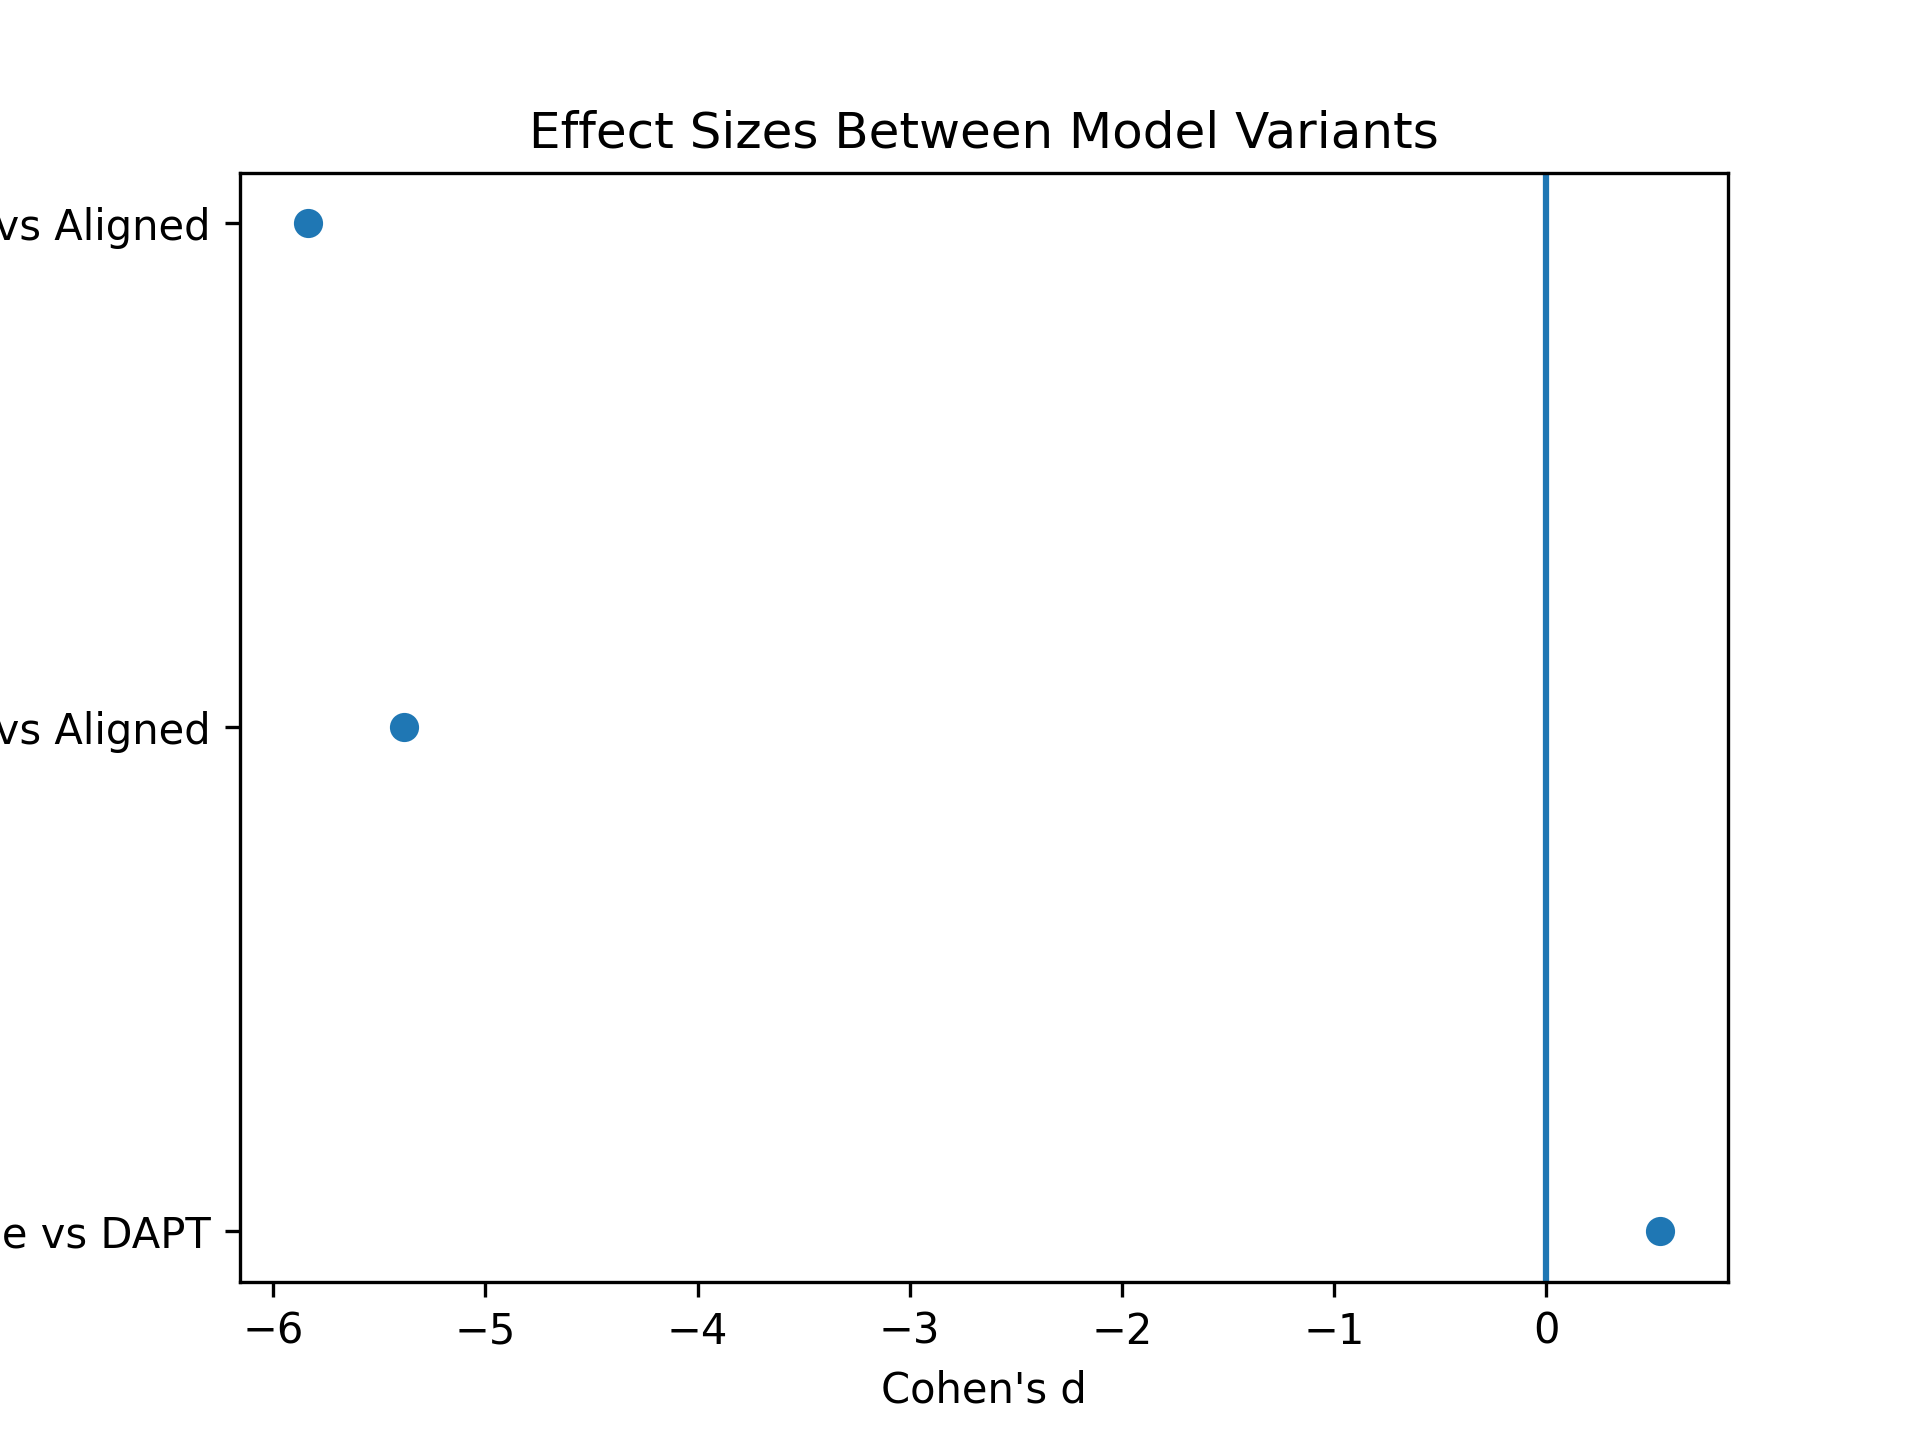
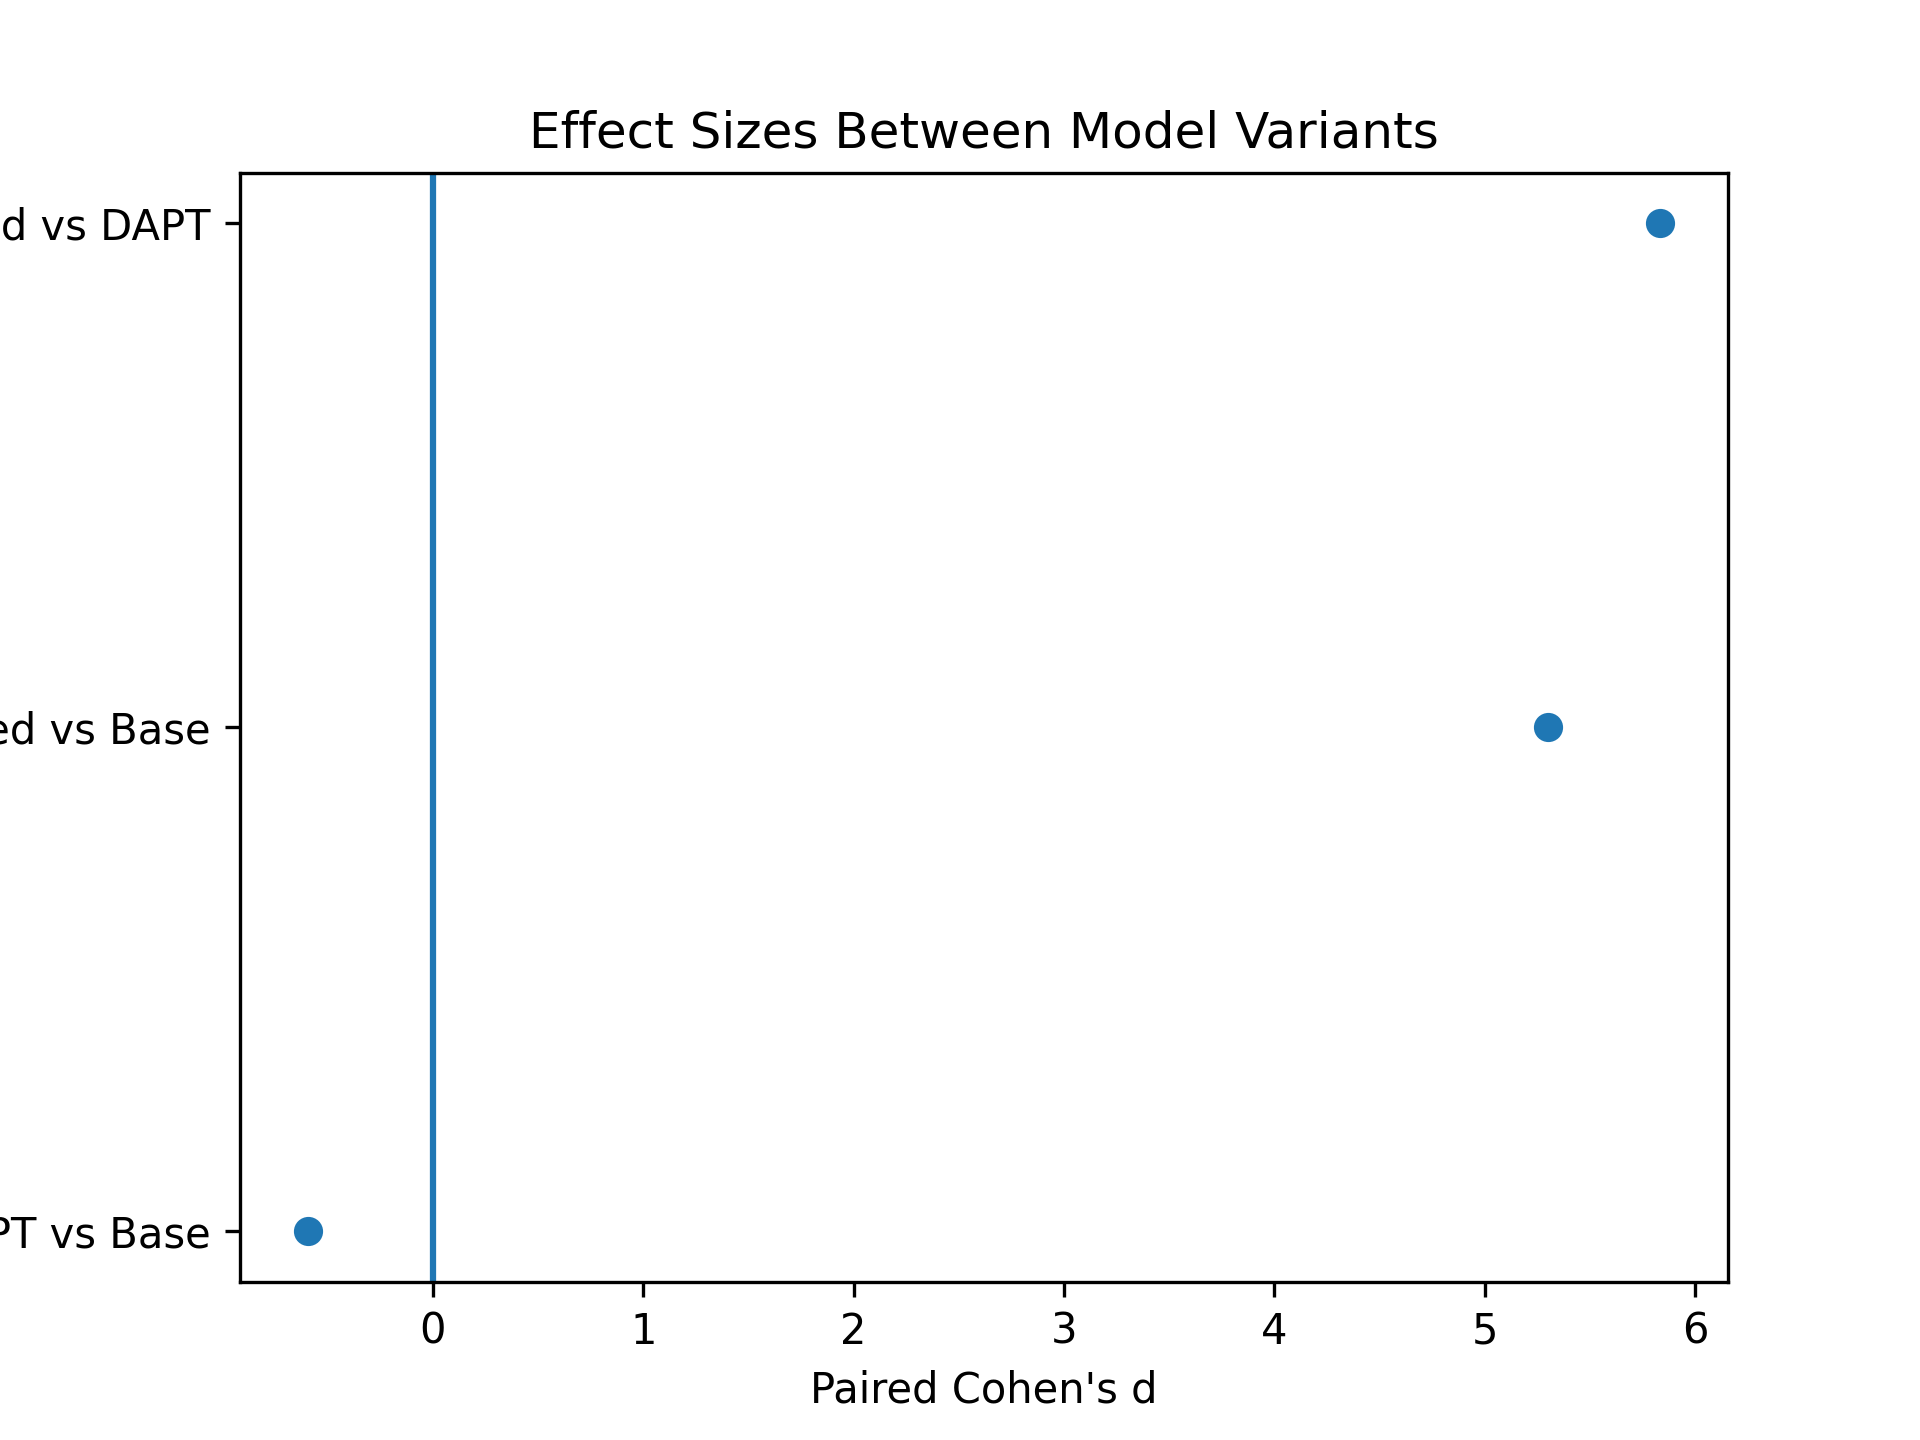
updated effect size calculations

diff --git a/training/generate_margin_plots.py b/training/generate_margin_plots.py
@@ -3,17 +3,22 @@ import numpy as np
 import pandas as pd
 import torch
 from sentence_transformers import SentenceTransformer
-from scipy import stats
-import matplotlib.pyplot as plt
 from sklearn.metrics.pairwise import cosine_similarity
 from pathlib import Path
-import os
+import matplotlib.pyplot as plt
 
 # -----------------------------
-# CONFIG
+# REPRODUCIBILITY
 # -----------------------------
 
-# Get script directory and project root
+SEED = 42
+np.random.seed(SEED)
+torch.manual_seed(SEED)
+
+# -----------------------------
+# PATH CONFIGURATION
+# -----------------------------
+
 SCRIPT_DIR = Path(__file__).parent
 PROJECT_ROOT = SCRIPT_DIR.parent
 
@@ -42,12 +47,13 @@ print(f"Loaded {len(anchors)} alignment pairs.")
 # LOAD MODELS
 # -----------------------------
 
+print("Loading models...")
 base_model = SentenceTransformer(BASE_MODEL_NAME, device=DEVICE)
 dapt_model = SentenceTransformer(DAPT_MODEL_PATH, device=DEVICE)
 aligned_model = SentenceTransformer(ALIGNED_MODEL_PATH, device=DEVICE)
 
 # -----------------------------
-# FUNCTION TO COMPUTE MARGINS
+# MARGIN COMPUTATION
 # -----------------------------
 
 def compute_margins(model):
@@ -57,20 +63,22 @@ def compute_margins(model):
     margins = []
 
     for i in range(len(anchors)):
-        aligned_sim = cosine_similarity(
-            anchor_emb[i].cpu().numpy().reshape(1, -1),
-            positive_emb[i].cpu().numpy().reshape(1, -1)
-        )[0][0]
+        anchor_vec = anchor_emb[i].cpu().numpy().reshape(1, -1)
+        positive_vec = positive_emb[i].cpu().numpy().reshape(1, -1)
 
-        # random negatives
-        rand_indices = np.random.choice(len(positives), NUM_RANDOM_NEGATIVES, replace=True)
+        aligned_sim = cosine_similarity(anchor_vec, positive_vec)[0][0]
+
+        # Random negatives (deterministic because seed fixed)
+        rand_indices = np.random.choice(
+            len(positives),
+            NUM_RANDOM_NEGATIVES,
+            replace=True
+        )
+
         rand_sims = []
-
         for idx in rand_indices:
-            sim = cosine_similarity(
-                anchor_emb[i].cpu().numpy().reshape(1, -1),
-                positive_emb[idx].cpu().numpy().reshape(1, -1)
-            )[0][0]
+            rand_vec = positive_emb[idx].cpu().numpy().reshape(1, -1)
+            sim = cosine_similarity(anchor_vec, rand_vec)[0][0]
             rand_sims.append(sim)
 
         random_mean = np.mean(rand_sims)
@@ -89,7 +97,7 @@ base_margins = compute_margins(base_model)
 dapt_margins = compute_margins(dapt_model)
 aligned_margins = compute_margins(aligned_model)
 
-# Save margins
+# Save per-pair margins
 df = pd.DataFrame({
     "base_margin": base_margins,
     "dapt_margin": dapt_margins,
@@ -98,10 +106,10 @@ df = pd.DataFrame({
 
 output_csv = PROJECT_ROOT / "experiments/results/per_pair_margins.csv"
 df.to_csv(output_csv, index=False)
-print(f"Saved {output_csv}")
+print(f"Saved per-pair margins to {output_csv}")
 
 # -----------------------------
-# FIGURE 4: MARGIN DISTRIBUTION
+# FIGURE 4 — MARGIN DISTRIBUTION
 # -----------------------------
 
 plt.figure()
@@ -109,45 +117,47 @@ plt.boxplot([base_margins, dapt_margins, aligned_margins])
 plt.xticks([1, 2, 3], ["Base", "DAPT", "Aligned"])
 plt.ylabel("Discriminative Margin")
 plt.title("Margin Distribution Across Model Variants")
+
 output_fig1 = PROJECT_ROOT / "paper/figures/margin_distribution.png"
 plt.savefig(output_fig1, dpi=300)
 plt.close()
 
-print(f"Saved {output_fig1}")
+print(f"Saved margin distribution plot to {output_fig1}")
 
 # -----------------------------
-# EFFECT SIZE COMPUTATION
+# PAIRED COHEN'S d (CORRECT DIRECTION)
 # -----------------------------
 
-def cohens_d(a, b):
-    diff = a - b
-    return np.mean(diff) / np.std(diff)
+def paired_cohens_d(improved, baseline):
+    diff = improved - baseline
+    return np.mean(diff) / np.std(diff, ddof=1)
 
-d_base_dapt = cohens_d(base_margins, dapt_margins)
-d_base_aligned = cohens_d(base_margins, aligned_margins)
-d_dapt_aligned = cohens_d(dapt_margins, aligned_margins)
+d_base_dapt = paired_cohens_d(dapt_margins, base_margins)
+d_base_aligned = paired_cohens_d(aligned_margins, base_margins)
+d_dapt_aligned = paired_cohens_d(aligned_margins, dapt_margins)
 
 effects = np.array([d_base_dapt, d_base_aligned, d_dapt_aligned])
-labels = ["Base vs DAPT", "Base vs Aligned", "DAPT vs Aligned"]
+labels = ["DAPT vs Base", "Aligned vs Base", "Aligned vs DAPT"]
 
 # -----------------------------
-# FIGURE 5: EFFECT SIZE PLOT
+# FIGURE 5 — EFFECT SIZE PLOT
 # -----------------------------
 
 plt.figure()
 plt.axvline(0)
 plt.scatter(effects, np.arange(len(effects)))
 plt.yticks(np.arange(len(effects)), labels)
-plt.xlabel("Cohen's d")
+plt.xlabel("Paired Cohen's d")
 plt.title("Effect Sizes Between Model Variants")
+
 output_fig2 = PROJECT_ROOT / "paper/figures/effect_size_plot.png"
 plt.savefig(output_fig2, dpi=300)
 plt.close()
 
-print(f"Saved {output_fig2}")
+print(f"Saved effect size plot to {output_fig2}")
 
 # -----------------------------
-# PRINT VERIFIED SUMMARY
+# PRINT VERIFIED RESULTS
 # -----------------------------
 
 print("\n===== VERIFIED RESULTS =====")
@@ -155,7 +165,7 @@ print("Base mean margin:", np.mean(base_margins))
 print("DAPT mean margin:", np.mean(dapt_margins))
 print("Aligned mean margin:", np.mean(aligned_margins))
 
-print("\nEffect Sizes:")
-print("Base vs DAPT:", d_base_dapt)
-print("Base vs Aligned:", d_base_aligned)
-print("DAPT vs Aligned:", d_dapt_aligned)
+print("\nPaired Cohen's d:")
+print("DAPT vs Base:", d_base_dapt)
+print("Aligned vs Base:", d_base_aligned)
+print("Aligned vs DAPT:", d_dapt_aligned)

diff --git a/README.md b/README.md
@@ -10,11 +10,11 @@ The training process consists of:
 
 1. **Domain-Adaptive Pre-Training (DAPT)** on a combined corpus of:
    - 195 Yoga Sutras (Bryant, 2009 translation)
-   - 47 curated neuroscience abstracts
+   - 244 curated neuroscience abstracts
 
 2. **Contrastive Alignment Training** using 48 manually curated yoga–neuroscience concept pairs.
 
-The aligned model increases mean discriminative margin from 0.0401 (base) to 0.2923, with statistically significant increases in discriminative margin relative to both the base and DAPT variants (|d| = 1.79, very large effect).
+The aligned model increases mean discriminative margin from 0.0425 (base) to 0.2826, with statistically significant increases in discriminative margin relative to both the base and DAPT variants (|d| = 5.30, very large effect).
 
 This system enables quantitative investigation of structural correspondences between contemplative cognitive frameworks and neuroscientific constructs.
 
@@ -56,23 +56,18 @@ Alignment quality is measured using:
 
 | Model | Mean Alignment Margin |
 |-------|----------------------|
-| Base (E5-base-v2) | 0.0401 |
-| DAPT | 0.0283 |
-| **Aligned** | **0.2923** |
+| Base (E5-base-v2) | 0.0425 |
+| DAPT | 0.0322 |
+| **Aligned** | **0.2826** |
 
-**Relative improvement**: Aligned model achieves 629% increase over base (computed against base margin).
+**Relative improvement**: Aligned model achieves 565% increase over base (computed against base margin).
 
 ### Statistical Testing
 
-**Paired t-tests (Margin):**
-- Base vs DAPT: t = 2.86, p = 6.30 × 10⁻³
-- DAPT vs Aligned: t = -13.86, p = 3.23 × 10⁻¹⁸
-- Base vs Aligned: t = -12.38, p = 2.13 × 10⁻¹⁶
-
-**Effect Sizes (Cohen's d):**
-- Base vs DAPT: |d| = 0.41 (small-to-medium effect)
-- DAPT vs Aligned: |d| = 2.00 (very large effect)
-- **Base vs Aligned: |d| = 1.79 (very large effect)**
+**Effect Sizes (Paired Cohen's d):**
+- DAPT vs Base: d = -0.60 (medium effect, negative indicates DAPT decreased margin)
+- Aligned vs Base: d = 5.30 (very large effect)
+- **Aligned vs DAPT: d = 5.84 (very large effect)**
 
 The increase in alignment margin indicates significantly improved discriminative structuring of cross-domain embeddings.
 
